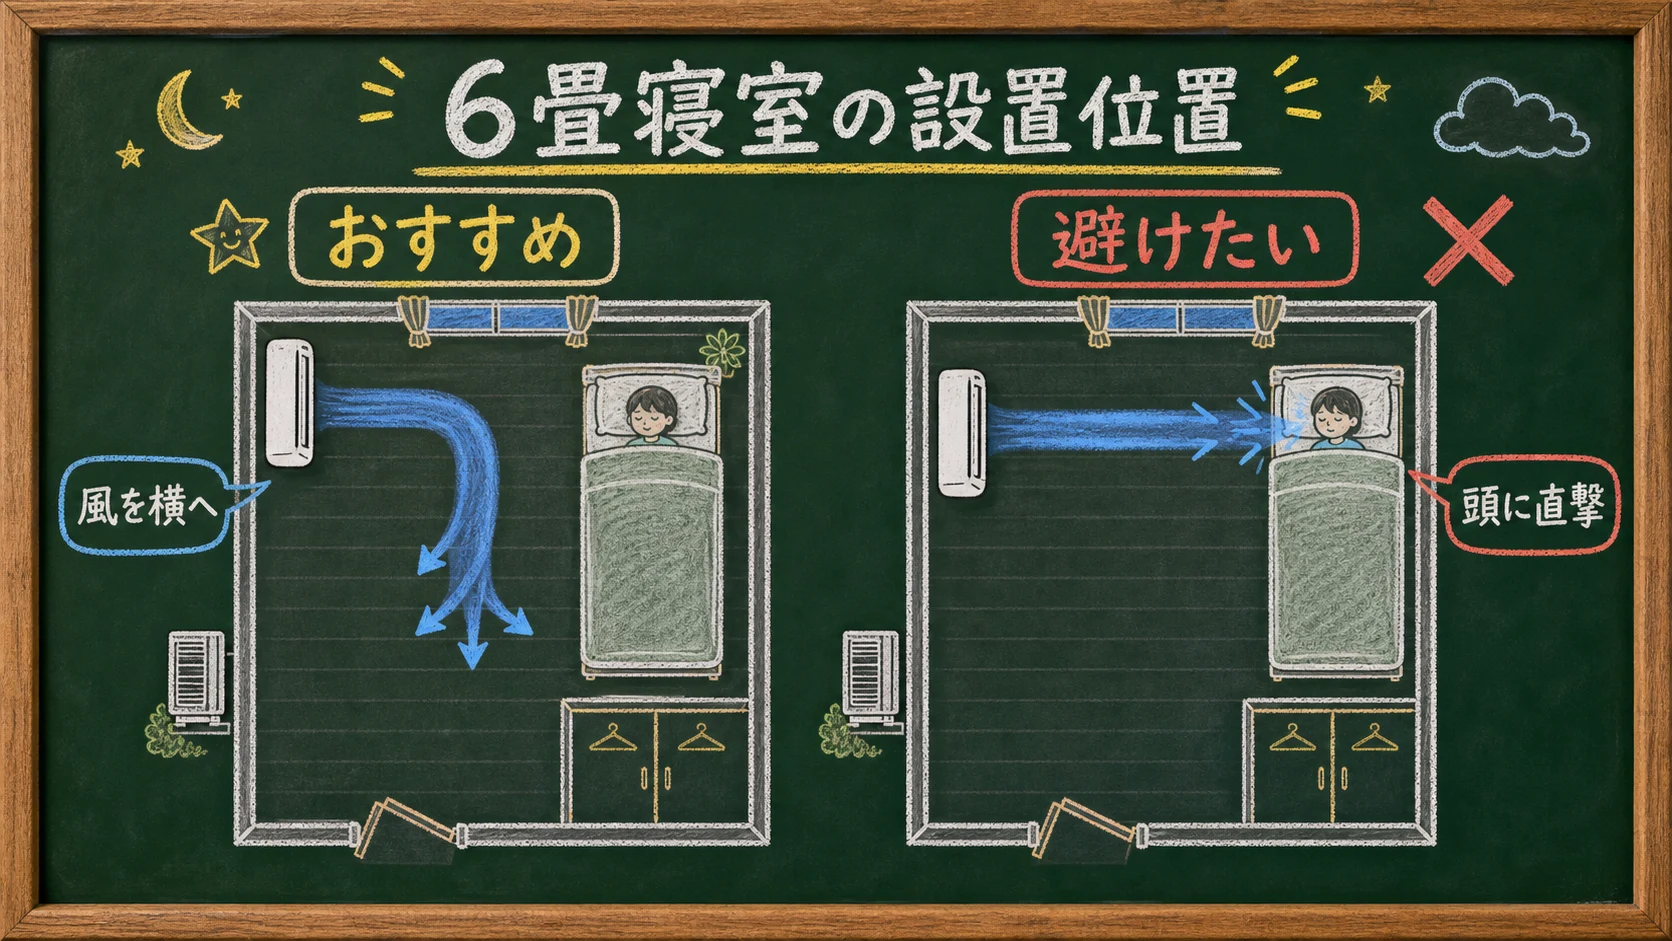
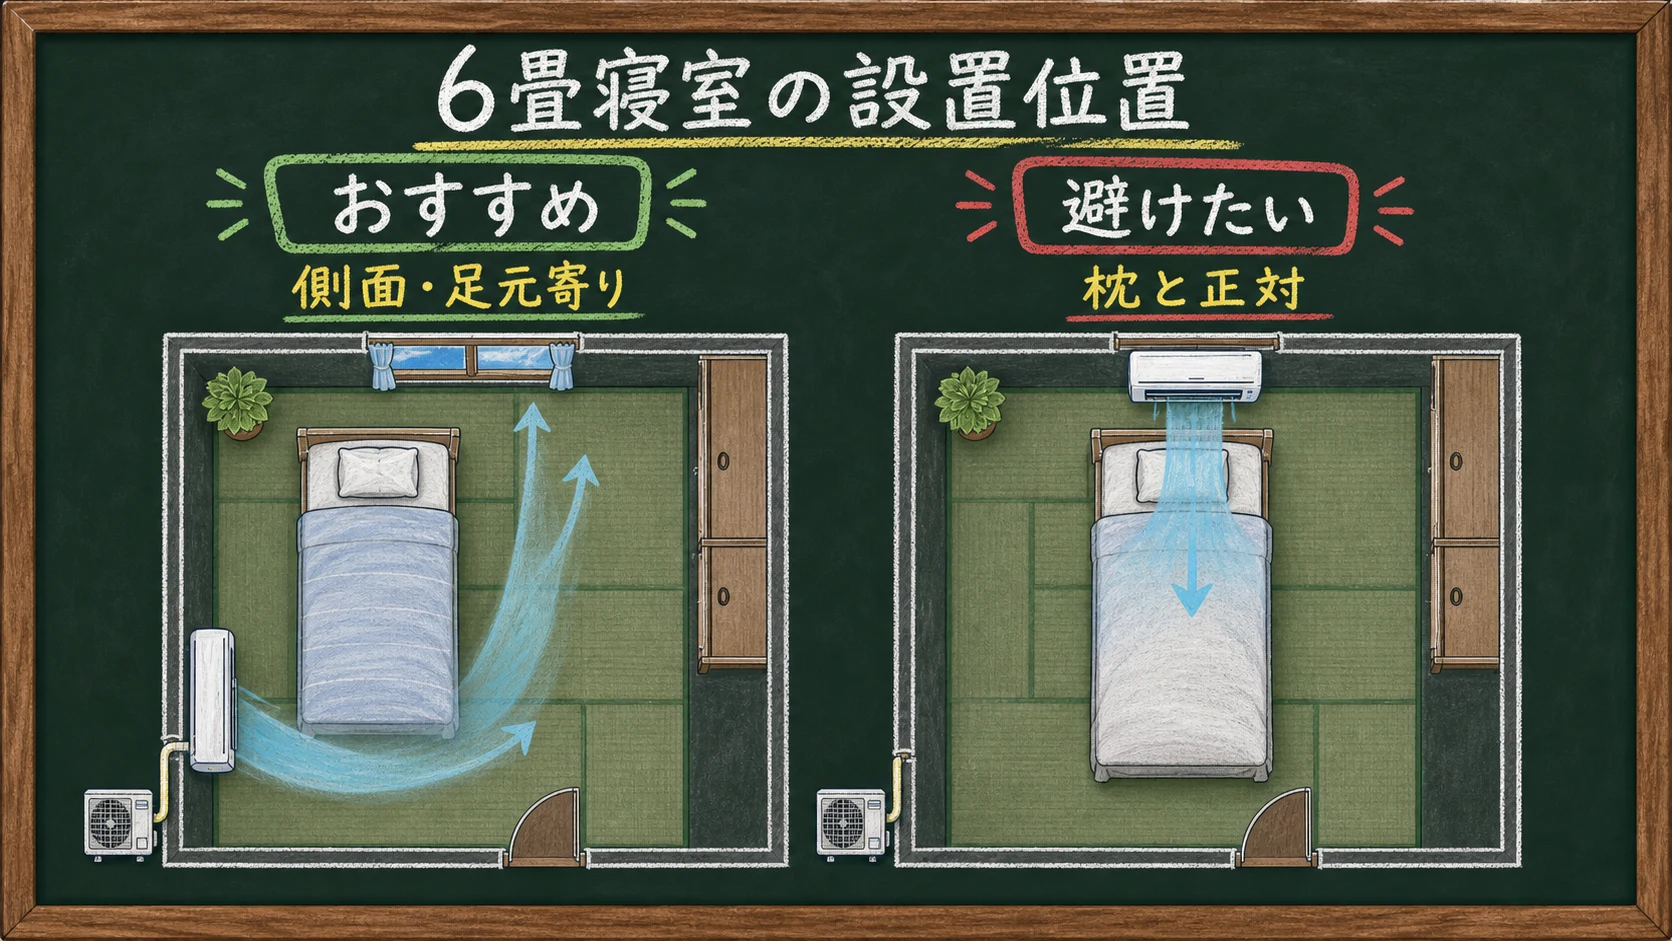
fix: 寝室エアコンの設置位置図解を修正

diff --git a/src/content/articles/aircon-6jou-position.md b/src/content/articles/aircon-6jou-position.md
@@ -13,7 +13,7 @@ quickAnswer:
   - "室内機だけでなく、室外機と配管経路も同時に見る。"
   - "壁の強度・配線・配管穴は工事業者に確認してもらう。"
 boardImage: "/images/articles/aircon-6jou-position-board.webp"
-boardAlt: "6畳寝室で風をベッドの横へ流す配置と、頭へ直接当たる避けたい配置を比べた板書図解"
+boardAlt: "6畳寝室で室内機をベッドの側面・足元寄りに置く配置と、枕に正対して置く配置を比べた板書図解"
 relatedArticles: ["aircon-6jou-choose", "installation-cost", "not-cooling"]
 pubDate: "2026-07-12"
 ---
